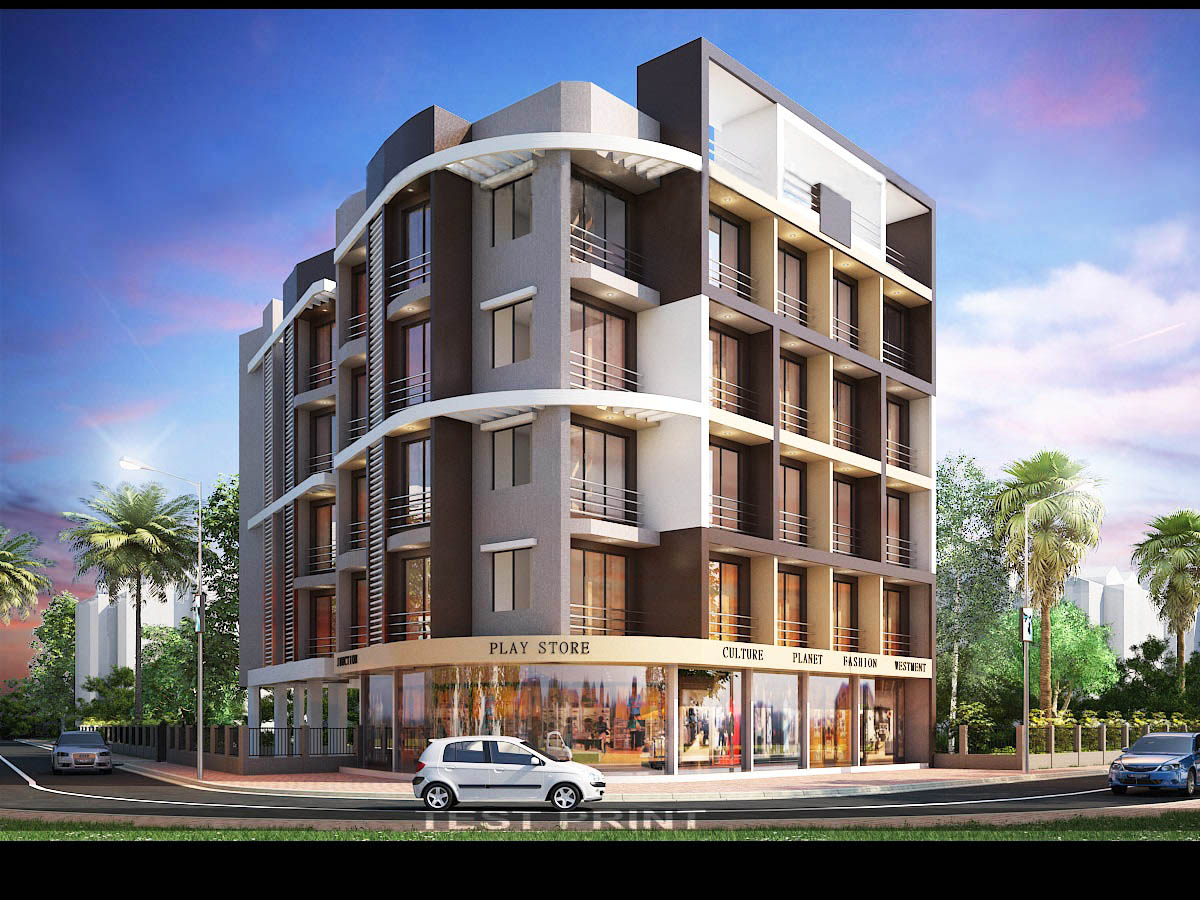
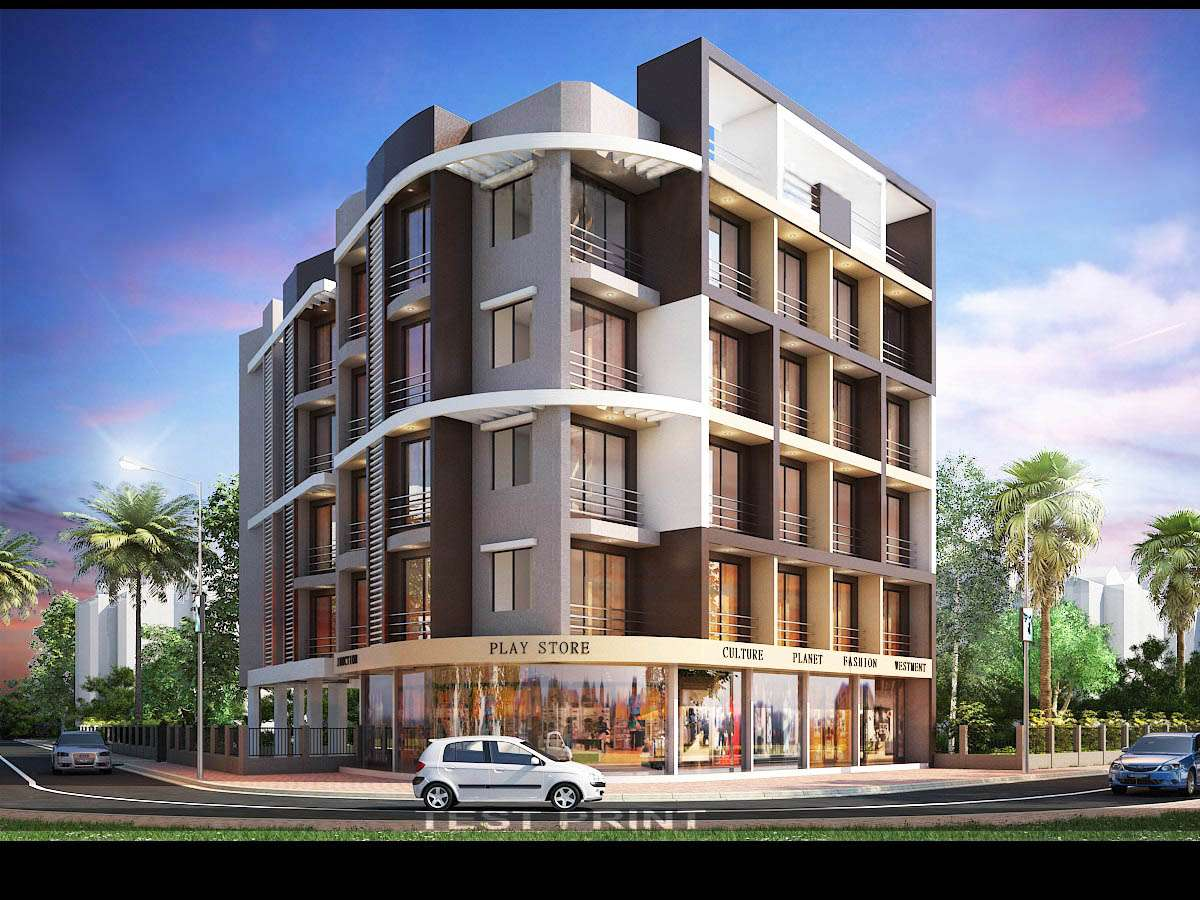
Minor Changes:Fixed White borders on Images(Shikhar: Phone remains)

diff --git a/src/data/site.ts b/src/data/site.ts
@@ -65,7 +65,7 @@ export const projects: Project[] = [
       "The latest Nesting Tree residence — a high-rise built on the same standard as every project before it: more amenities, better daily living, delivered on time.",
     amenities: "Rooftop Gym · Terrace · Lift · CCTV",
     image: "/images/projects/ShikharElevationFinal.jpeg",
-    objectPosition: "center top",
+    objectPosition: "center 12%",
   },
   {
     slug: "prithvi",
@@ -77,7 +77,7 @@ export const projects: Project[] = [
       "A corner-plot residence with deep balconies and street-level retail — designed for everyday convenience without leaving the building.",
     amenities: "Lift · CCTV · Parking · Retail",
     image: "/images/projects/Prithvi-Elevation.jpg",
-    objectPosition: "center top",
+    objectPosition: "center 12%",
   },
   {
     slug: "ishan",
@@ -89,7 +89,7 @@ export const projects: Project[] = [
       "Clean contemporary lines, planted balconies and a secured entrance — a calm address with the Nesting Tree amenity standard built in.",
     amenities: "Terrace · Lift · CCTV · Security",
     image: "/images/projects/Ishan-Reduced.jpg",
-    objectPosition: "center top",
+    objectPosition: "center 30%",
   },
   {
     slug: "rudra",